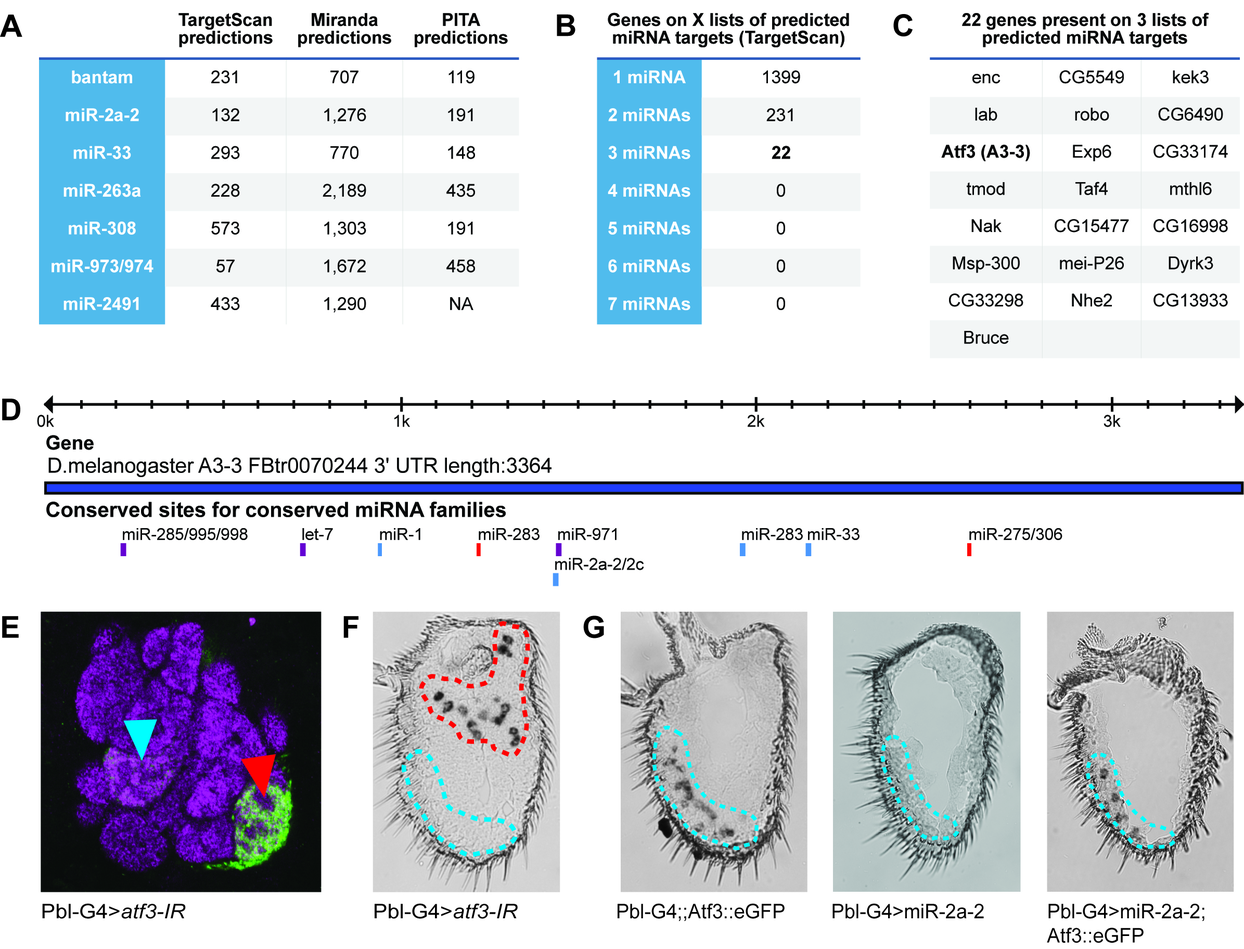
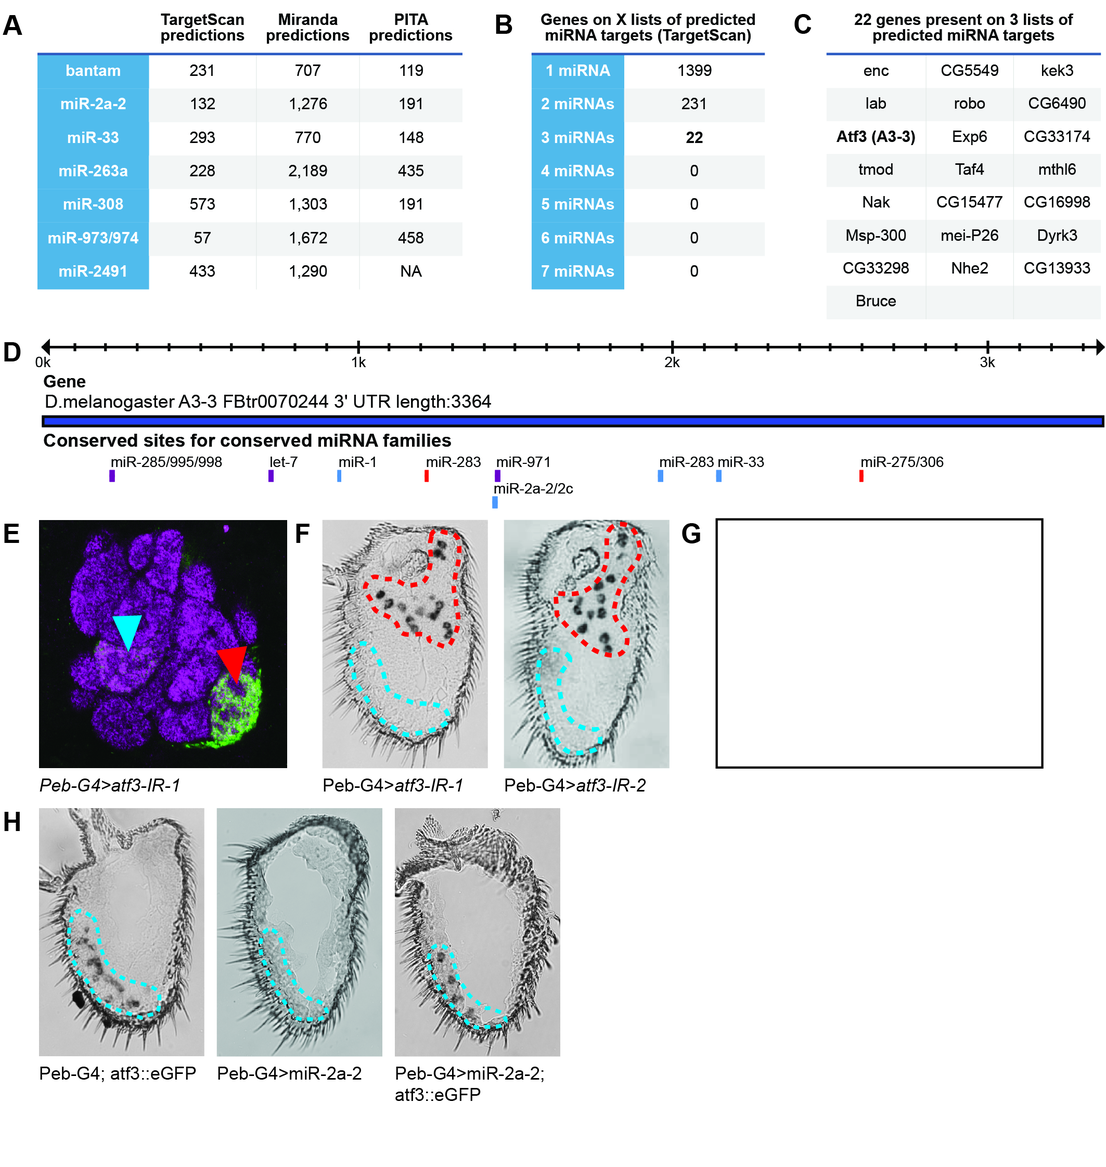
Loads of changes. Whoops! Forgot to commit.

diff --git a/secondary_screen.tex b/secondary_screen.tex
@@ -4,16 +4,16 @@ Following the screening protocol outlined in \textbf{Fig. \ref{fig:1}A}, we next
 We initially compared the outputs of multiple target prediction algorithms (i.e., TargetScan, miRanda, and PITA), as this is standard practice \cite{am_Namkoong_Lee_Chung_Kim_2009,agen_Okamura_Perrimon_Lai_2007}.
 \textbf{Figure \ref{fig:2}A} compares the numbers of candidate targets predicted for each miRNA that induces loss of Or47b by the \href{http://www.targetscan.org/fly_12/}{TargetScan} \cite{ohnston_Kellis_Bartel_Lai_2007}, \href{http://www.microrna.org}{miRanda} \cite{Gaul_Tuschl_Sander_Marks_2003}, and \href{http://genie.weizmann.ac.il/pubs/mir07/mir07_dyn_data.html}{PITA} \cite{ino_Unnerstall_Gaul_Segal_2007} algorithms.
 
-Typically, miRNA-based screens using Gal4 lines that drive expression in well-characterized tissues would allow a list of predicted miRNA targets to be prioritized based on expression in the tissue of interest.
+Typically, miRNA-based screens using GAL4 lines that drive expression in well-characterized tissues would allow a list of predicted miRNA targets to be prioritized based on expression in the tissue of interest.
 In this case, however, without access to transcriptome data for the olfactory neurons of interest, we decided to prioritize our secondary RNAi screen by looking for overlap between the lists of candidate targets for each miRNA whose over-expression eliminated Or47b expression.
 We decided to focus on TargetScan because it predicts miRNA seed matches in both 3'-UTRs and open reading frames as well as provides a way to query more recently identified miRNAs like miR-2491.
 PITA does not provide easy access to this option, and the miRanda algorithm produces too many predicted targets.
 TargetScan predicts a total of 1399 unique targets for the seven UAS-miRNA lines that eliminate Or47b expression.
 While 231 of these unique candidates are shared between the prediction lists for two of the miRNAs, only 22 targets appear on the lists for three of the miRNAs (\textbf{Fig. \ref{fig:2}B-C}).
 
-We next screened through the list of candidate targets that appear on the prediction lists for multiple miRNAs by combining gene-specific UAS-candidate-IR (inverted repeat) lines with the control Peb-GAL4; Or47b\textgreater{}CD8::GFP, Or92a\textgreater{}CD8::GFP genotype.
+We next screened through this list of candidate targets appearing on the prediction lists for multiple miRNAs by combining gene-specific UAS-candidate-IR (inverted repeat) lines with the control Peb-GAL4; Or47b\textgreater{}CD8::GFP, Or92a\textgreater{}CD8::GFP genotype.
 In this secondary screen, knockdown of responsible targets can be expected to mimic the miRNA-induced loss of Or47b.
-This is how we were able to confirm a role for Activating Transcription Factor 3 (Atf3 or A3-3) in the expression of Or47b.
+This is how we were able to identify a role for Activating Transcription Factor 3 (Atf3 or A3-3) in the expression of Or47b.
 Atf3 appears on the predicted target lists for three miRNAs whose over-expression eliminates Or47b expression (i.e., miR-2a-2, miR-33, and miR-2491).
 \textbf{Figure \ref{fig:2}D} indicates the positions of the miR-2a-2 and miR-33 binding sites in the Atf3 3'-UTR.
 The miR-2491 binding site in the 3'-UTR of Atf3 is conserved across several species of \emph{Drosophila}, but because it is not part of the standard TargetScan search parameters it does not appear in the exportable graphic used to make \textbf{Figure \ref{fig:3}D}.
@@ -23,7 +23,7 @@ This fact that it is currently impossible to predict which of the clear miRNA se
 Furthermore, loss of Atf3 eliminates Or47b expression as assessed via mixed probe \emph{in situ} hybridization while leaving Or92a expression unaffected (compare \textbf{Fig. \ref{fig:2}F} to \textbf{Fig. \ref{fig:1}C}).
 Since we are using miRNAs as a screening tool, the precise mechanisms by which they produce their phenotypes are irrelevant to the results of the follow-up screen.
 Still, in the interest of completeness, we confirmed that the over-expression of miR-2a-2 reduces the level of Atf3 in antennal cDNAs as detected by qPCR (\textbf{Fig. \ref{fig:2}G}).
-We were also able to confirm that the loss of Or47b expression induced by miR-2a-2 over-expression is rescued by introduction of an Atf3::eGFP protein fusion that lacks its 3'-UTR and thus the miR-2a-2 binding site (\textbf{Fig. \ref{fig:2}H}).
+We were also able to confirm that the loss of Or47b expression induced by miR-2a-2 over-expression is rescued by introduction of an Atf3::eGFP fusion that lacks its 3'-UTR and thus the miR-2a-2 binding site (\textbf{Fig. \ref{fig:2}H}).
 
-Eip93f, the only other transcription factor whose loss-of-function eliminates Or47b expression, appears on the candidate target lists of two miRNAs whose over-expression eliminates expression of the Or47b reporter (i.e., miR-308 and miR-2491).
+It is interesting to note that Eip93f, the only other transcription factor whose loss-of-function eliminates Or47b expression, appears on the candidate target lists of two miRNAs whose over-expression eliminates expression of the Or47b reporter (i.e., miR-308 and miR-2491).
 This means we could have identified it in a second round of gene-specific RNAi screening had the list of candidate targets appearing on three lists failed to identify a true positive.

diff --git a/discussion.tex b/discussion.tex
@@ -1,15 +1,15 @@
 \section*{Discussion}
 
-Here we report a simple proof-of-concept for a two-tiered, miRNA-based screening system designed to accelerate the process of genetic screening in \emph{Drosophila}.
+Here we report a simple proof-of-concept for a two-tiered, miRNA-based approach for accelerating the process of genetic screening in \emph{Drosophila}.
 We generated a collection of transgenic fly stocks that permit the tissue-specific over-expression of miRNAs.
 Since miRNAs down-regulate their targets, we reasoned that miRNAs could be used for a pooling pre-screen that points the way to a much smaller list of RNAi stocks for follow-up screening than would normally be necessary.
 We demonstrated this screening method in the olfactory system where we identified a novel role for the transcription factor Atf3 in the expression of the socially relevant odorant receptor Or47b.
 
 In addition, Eip93f, the only other transcription factor known to be involved in Or47b expression, is also a predicted target of some of the miRNAs we found to cause loss of Or47b expression.
-In other words, we were able to validate our screening system on a known transcription factor and rapidly (i.e., in a small number of genetic crosses) identify a previously unknown player in OR expression, Atf3.
+In other words, our screening strategy pointed both to a known transcription factor and, in very few genetic crosses, a previously unknown player in OR expression, Atf3.
 
 The clear advantage to a two-tiered miRNA-based screening strategy is a reduction in the total number of crosses necessary to identify a gene associated with a specific phenotype.
-Genetic screening always depends on a limited human resource---the patience and endurance of the researcher.
+Genetic screening always depends on a limited resource---the patience and endurance of the researcher.
 In traditional genetic screens the assay for the screened phenotype must be as simple and streamlined as possible to minimize researcher fatigue.
 In our proof-of-principle screen in the olfactory system, we were able to identify Atf3 in roughly 160 genetic crosses.
 With this level of acceleration, it becomes feasible to design screens with more complicated or time-consuming assays.
@@ -22,7 +22,7 @@ Their results suggest the existence of an essential repressor binding site in th
 Unfortunately, there is no clear binding site in the Or47b promoter that matches the only published \cite{a_Bohmann_Jindra_Uhlirova_2009} consensus sequence recognized by \emph{Drosophila} Atf3, TGACGTCA.
 Thus, further experiments will be necessary to determine the exact mechanism of action by which Atf3 regulates Or47b expression.
 
-Although our proof-of-concept screen was successful, it has not escaped our attention that miRNA-based screening is inherently biased and will not be suitable for screening in every tissue or for every phenotype.
+Although our proof-of-concept screen was successful, it has not escaped our attention that miRNA-based screening is inherently biased and will not be suitable for use in every tissue or for every phenotype.
 One type of bias stems from our strict use of endogenous \emph{Drosophila} miRNAs rather than designing short synthetic miRNAs that may allow targeting of a wider range of genes.
 Even with a collection of synthetic miRNAs, though, any form of miRNA-based screening would preferentially identify genes with longer open reading frames and longer 3'-UTRs.
 In fact, as is the case with traditional RNAi technology, some genes may not be accessible to miRNA-based knockdown at all.

diff --git a/intro.tex b/intro.tex
@@ -17,12 +17,12 @@ Rather than seeing these pairings as a potential drawback of using a library of 
 We previously generated a library of 131 UAS-miRNA fly stocks that permit tissue-specific over-expression of 144 \emph{Drosophila} miRNAs \cite{suh_2015aa}.
 In this study, we sought to use these UAS-miRNA stocks to validate the concept of a two-tiered miRNA-based screen in the \emph{Drosophila} olfactory system.
 
-The olfactory receptor neurons (ORNs) of adult \emph{Drosophila} are housed in porous hair-like sensilla that cover the paired antennae and maxillary palps.
+The olfactory sensory neurons (OSNs) of adult \emph{Drosophila} are housed in porous hair-like sensilla that cover the paired antennae and maxillary palps.
 Olfactory sensilla are divided into 3 main classes by their shape and 17 subclasses by their odor response profiles \cite{Couto_Alenius_Dickson_2005}.
-The odor response profile of an ORN is determined by its expression of the obligatory olfactory co-receptor Orco and one or very few of the adult odor-specific odorant receptors (ORs) \cite{Vosshall_Stocker_2007}.
-The spatial arrangement of the 17 subclasses of adult olfactory sensilla on the antenna, the arrangement of the ORNs themselves, the precise pattern of OR expression, and the wiring of the antennal OSNs into the appropriate glomeruli of the antennal lobe are all highly stereotyped from fly to fly, indicating well-orchestrated developmental control of every step in the process.
+The odor response profile of an OSN is determined by its expression of the obligatory olfactory co-receptor Orco and one or very few of the adult odor-specific odorant receptors (ORs) \cite{Vosshall_Stocker_2007}.
+The spatial arrangement of the 17 subclasses of adult olfactory sensilla on the antenna, the arrangement of the OSNs themselves, the precise pattern of OR expression, and the wiring of the antennal OSNs into the appropriate glomeruli of the antennal lobe are all highly stereotyped from fly to fly, indicating well-orchestrated developmental control of every step in the process.
 
-Recently Jafari et al. reported the results of a large-scale RNAi screen that identified seven transcription factors, permutations of which determine the odorant receptor expressed by each population of olfactory neurons in the adult \emph{Drosophila} antenna.
+Jafari et al. reported the results of a large-scale RNAi screen that identified seven transcription factors, permutations of which determine the odorant receptor expressed by each population of olfactory neurons in the adult \emph{Drosophila} antenna.
 Despite the success of their screen, Jafari et al. extrapolated from the complexity of the fly olfactory system and estimated that at least three more unidentified transcription factors are likely part of the combinatorial code that determines OR expression \cite{Brochtrup_Hummel_Alenius_2012}.
 
 In their screen, Jafari et al. combined the Peb-GAL4 driver line, which is strongly expressed in peripheral sensory neurons including the antennal olfactory neurons, with a pair of OR promoter fusions (i.e., Or47b and Or92a) to a membrane-tethered GFP that act as reporters of OR expression.

diff --git a/abstract.tex b/abstract.tex
@@ -1,1 +1,1 @@
-The \emph{Drosophila} olfactory system is highly stereotyped in form and function; olfactory receptor neurons (ORNs) expressing a specific odorant receptor (OR) always appear in the same antennal location and the axons of ORNs expressing the same OR converge on the same antennal lobe glomeruli. Although some transcription factors have been implicated in a combinatorial code specifying OR expression and ORN identity, it is clear other players remain unidentified. To mitigate some of the challenges of genome-wide screening, we propose a two-tiered approach comprising a primary "pooling" screen for miRNAs whose tissue-specific over-expression causes a phenotype of interest followed by a focused secondary screen using gene-specific RNAi. Since miRNAs down-regulate their target mRNAs, miRNA over-expression phenotypes should be attributable to target loss-of-function. Since miRNA-target pairing is sequence-dependent, predicted targets of miRNAs identified in the primary screen are candidates for the secondary screen. Since miRNAs are short, however, miRNA misexpression will likely uncover non-biological miRNA-target relationships. Rather than focusing on miRNA function itself where these non-biological relationships could be misleading, we propose using miRNAs as tools to focus a more traditional RNAi-based screen. Here we describe a proof-of-concept miRNA-based screen that uncovers a role for Atf3 in the expression of the odorant receptor Or47b.
+The \emph{Drosophila} olfactory system is highly stereotyped in form and function; olfactory sensory neurons (OSNs) expressing a specific odorant receptor (OR) always appear in the same antennal location and the axons of OSNs expressing the same OR converge on the same antennal lobe glomeruli. Although some transcription factors have been implicated in a combinatorial code specifying OR expression and OSN identity, it is clear other players remain unidentified. To mitigate some of the challenges of genome-wide screening, we propose a two-tiered approach comprising a primary ``pooling'' screen for miRNAs whose tissue-specific over-expression causes a phenotype of interest followed by a focused secondary screen using gene-specific RNAi. Since miRNAs down-regulate their target mRNAs, miRNA over-expression phenotypes should be attributable to target loss-of-function. Since miRNA-target pairing is sequence-dependent, predicted targets of miRNAs identified in the primary screen are candidates for the secondary screen. Since miRNAs are short, however, miRNA misexpression will likely uncover non-biological miRNA-target relationships. Rather than focusing on miRNA function itself where these non-biological relationships could be misleading, we propose using miRNAs as tools to focus a more traditional RNAi-based screen. Here we describe a proof-of-concept miRNA-based screen that uncovers a role for Atf3 in the expression of the odorant receptor Or47b.

diff --git a/primary_screen.tex b/primary_screen.tex
@@ -1,14 +1,14 @@
 \subsection*{Primary screen for miRNAs that modify OR expression}
 
 As stated, we settled on \emph{Drosophila} olfactory neurons to demonstrate our miRNA-based screening strategy.
-We chose Pbl-GAL4 to drive expression of UAS-miRNAs in adult olfactory neurons because it is expressed strongly in peripheral sensory neurons beginning 12-18 hours after pupation \cite{dnik_Dickson_Luo_Komiyama_2007}.
-By combining Pbl-GAL4 with fusions of two odorant receptor promoters (i.e., Or92a and Or47b) to the coding sequence for a membrane-tethered GFP and crossing in the UAS-miRNAs, we were able to visualize the effects of miRNAs on OR expression.
+We chose Peb-GAL4 to drive expression of UAS-miRNAs in adult olfactory neurons because it is expressed strongly in peripheral sensory neurons beginning 12-18 hours after pupation \cite{dnik_Dickson_Luo_Komiyama_2007}.
+By combining Peb-GAL4 with fusions of two odorant receptor promoters (i.e., Or92a and Or47b) to the coding sequence for a membrane-tethered GFP and crossing in the UAS-miRNAs, we were able to visualize the effects of miRNAs on OR expression.
 Or92a is expressed in large basiconic sensilla in a class of OSN called ab1B, which respond to 2,3-butanedione \cite{de_Bruyne_Foster_Carlson_2001}.
 Or47b is expressed in trichoid sensilla in a class of OSNs called at4, which respond to socially relevant fly-derived odors \cite{vanderGoesvanNaters:2007cq}.
 We chose Or92a and Or47b because they are expressed in olfactory neurons that innervate prominent, well-separated glomeruli in the antennal lobe (i.e., VA2 and VA1lm) and whose cell bodies are easily distinguishable upon antennal RNA \emph{in situ} hybridization.
 
-For the primary miRNA over-expression screen, we crossed a stable homozygous stock containing Pbl-GAL4 and the Or47b and Or92a promoter fusions to all of our UAS-miRNA lines.
-We observed that Pbl-GAL4-mediated over-expression of 20 of 131 miRNA lines is lethal or nearly lethal (see Supplemental Table 1).
+For the primary miRNA over-expression screen, we crossed a stable homozygous stock containing Peb-GAL4 and the Or47b and Or92a promoter fusions to all of our UAS-miRNA lines.
+We observed that Peb-GAL4-mediated over-expression of 20 of 131 miRNA lines is lethal or nearly lethal (see Supplemental Table 1).
 For the remaining miRNAs, we compared the levels of the GFP reporters of OR expression in the antennal lobes of flies over-expressing miRNAs with a heterozygous control (\textbf{Fig. \ref{fig:1}B-C}).
 In doing so, we were able to divide miRNAs into three categories: those that reduce the intensity of the Or47b reporter in VA1lm (\textbf{Fig. \ref{fig:1}D}, blue arrowheads), the Or92a reporter in VA2 (\textbf{Fig. \ref{fig:1}E}, red arrowheads), or both (\textbf{Fig. \ref{fig:1}F}).
 

diff --git a/atf3_validation.tex b/atf3_validation.tex
@@ -14,4 +14,13 @@ We used Peb-GAL4 in our two-tiered miRNA-based screen because it drives expressi
 Since Peb-GAL4 expression begins soon after the birth of the OSNs and long before the earliest OR expression begins at 50 hours APF, it is possible that Atf3 plays a developmental role in Or47b-expressing neurons.
 To rule out this possibility, we repeated the Atf3 loss-of-function experiment using Orco-GAL4.
 Orco-GAL4 begins to drive expression in antennal OSNs at roughly 80 hours APF, after olfactory development is complete \cite{s_Chiappe_Amrein_Vosshall_2004}.
-Like the result with Pbl-GAL4, knockdown of Atf3 using Orco-GAL4 eliminates Or47b expression, and this loss of Or47b expression can be partially rescued by re-introduction of Atf3 (\textbf{Fig. \ref{fig:3}D}).
+Like the result with Peb-GAL4, knockdown of Atf3 using Orco-GAL4 eliminates Or47b expression, and this loss of Or47b expression can be partially rescued by re-introduction of Atf3 (\textbf{Fig. \ref{fig:3}D}).
+
+In further confirmation of Atf3's role in OR expression, we performed an RNA \emph{in situ} hybridization experiment using mixed riboprobes against both Or92a and Or47b on Atf3-null mutants.
+Although the \emph{atf3\textsuperscript{76}} allele is a recessive lethal mutation \cite{Brodesser_Jindra_Uhlirova_2012}, we were able to obtain a few hemizygous male escapers.
+While Or92a expression in these mutant antennae remains intact, the expression of Or47b is completely lost (\textbf{Fig. \ref{fig:3}E, left}).
+The combination of the \emph{atf3\textsuperscript{76}} allele with the Atf3::eGFP BAC transgene, however, rescues both the lethality and the expression of Or47b (\textbf{Fig. \ref{fig:3}E, right}).
+
+Finally, because we observed a population of OSNs labeled by Atf3::eGFP and not by Or47b-G4>TdTomato (\textbf{Fig. \ref{fig:3}B}), we asked whether Atf3 is involved in the expression of other ORs.
+We knocked-down the expression of Atf3 in most OSNs using Orco-GAL4 (\emph{Orco-Gf>atf3-IR1}) and performed antennal RNA \emph{in situ} hybridizations using riboprobes specific to several more ORs known to be expressed in the adult antenna (i.e., Or13a, Or22a, Or22b, Or42b, Or43b, Or59b, Or85b, Or98a, and Orco).
+Of these, only Or43b is lost upon knockdown of Atf3 like Or47b (\textbf{Fig. \ref{fig:3}F}).

diff --git a/figures/Fig2/caption.tex b/figures/Fig2/caption.tex
@@ -4,7 +4,8 @@
 \textbf{B.} The number of genes that appear on the TargetScan candidate target lists in A.
 \textbf{C.} Twenty-two genes, including Atf3, appear on the candidate target lists for 3 different miRNAs.
 \textbf{D.} A schematized view of the Atf3 (A3-3) 3'-UTR showing the locations of seed matches for miR-2a and miR-33, which reduce Or47b expression.
-\textbf{E.} Atf3 knockdown in all olfactory neurons using Pbl-GAL4 reduces expression of an Or47b reporter, but spares expression of an Or92a reporter.
-\textbf{F.} Antennal \emph{in situ} hybridization with mixed riboprobes that recognize Or47b (blue) and Or92a (red) reveals that Atf3 knockdown eliminates Or47b expression, but spares Or92a expression.
-\textbf{G.} An Atf3::eGFP fusion protein lacking the Atf3 3'-UTR, which contains the miR-2a-2 binding site, rescues the loss of Or47b expression observed with miR-2a-2 over-expression.
+\textbf{E.} Atf3 knockdown in all olfactory neurons using Peb-GAL4 reduces expression of an Or47b reporter, but spares expression of an Or92a reporter.
+\textbf{F.} Antennal \emph{in situ} hybridization with mixed riboprobes that recognize Or47b (blue) and Or92a (red) reveals that Atf3 knockdown using two different RNAi lines eliminates Or47b expression, but spares Or92a expression.
+\textbf{G.} Over-expression of miR-2a-2 in olfactory neurons using Peb-GAL4 reduces the expression of Atf3 in the antenna. * $p$<0.05.
+\textbf{H.} An Atf3::eGFP fusion protein lacking the Atf3 3'-UTR, which contains the miR-2a-2 binding site, rescues the loss of Or47b expression observed with miR-2a-2 over-expression.
 \label{fig:2}

diff --git a/acknowledgements.tex b/acknowledgements.tex
@@ -1,4 +1,4 @@
 \section*{Acknowledgements}
 
-We thank Mattias Alenius (Link{\"{o}}ping, Sweden) for providing the published Pbl-GAL4,UAS-Dcr2;Or47b\textgreater{}CD8::GFP, Or92a\textgreater{}CD8:GFP stock, Mirka Uhlirova (K{\"{o}}ln, Germany) for providing the Atf3 mutant, UAS-Atf3 and Atf3::eGFP stocks, as well as the VDRC and TRiP at Harvard Medical School (NIH/NIGMS R01-GM084947) for providing transgenic RNAi fly stocks.
+We thank Mattias Alenius (Link{\"{o}}ping, Sweden) for providing the published Peb-GAL4,UAS-Dcr2;Or47b\textgreater{}CD8::GFP, Or92a\textgreater{}CD8:GFP stock, Mirka Uhlirova (K{\"{o}}ln, Germany) for providing the atf3\textsuperscript{76} mutant, UAS-Atf3 and Atf3::eGFP stocks, as well as the VDRC and TRiP at Harvard Medical School (NIH/NIGMS R01-GM084947) for providing transgenic RNAi fly stocks.
 This work was supported by grants to W.D.J. (2013R1A1A2011339 and 2010-0006217) from the National Research Foundation of Korea (NRF), which is funded by the Ministry of Science, ICT and Future Planning (MSIP), Republic of Korea.

diff --git a/drosophila_stocks.tex b/drosophila_stocks.tex
@@ -1,7 +1,9 @@
+\section*{Methods}
+
 \subsection*{\emph{Drosophila} stocks}
 
 All stocks were maintained at $25\,^{\circ}\mathrm{C}$ on conventional media.
-For the two screening steps, virgin females (Pbl-GAL4, UAS-Dcr2;Or47b\textgreater{}CD8::GFP, Or92a\textgreater{}CD8::GFP) or Orco-GAL4 (BDSC 26818), were mated to either UAS-miRNA or UAS-IR (inverted repeat) males.
+For the two screening steps, virgin females (Peb-GAL4, UAS-Dcr2;Or47b\textgreater{}CD8::GFP, Or92a\textgreater{}CD8::GFP) or Orco-GAL4 (BDSC 26818), were mated to either UAS-miRNA or UAS-IR (inverted repeat) males.
 The crosses were maintained at $25\,^{\circ}\mathrm{C}$ until being shifted to $27\,^{\circ}\mathrm{C}$ during pupation to enhance GAL4 expression.
 All UAS-miRNA and UAS-IR lines that were found to reduce the expression of the GFP reporters were crossed and checked 2-3 times each to ensure reproducibility.
 Two different UAS-Atf3-IR lines (BDSC 26741 and VDRC 105036) produced identical phenotypes.

diff --git a/figures/Fig3/caption.tex b/figures/Fig3/caption.tex
@@ -4,4 +4,6 @@
 \textbf{B.} An Atf3::eGFP protein fusion under the control of the Atf3 promoter is co-expressed with Or47b-GAL4 driving UAS-TdTomato in Or47b neurons.
 \textbf{C.} Over-expression of Atf3 in most adult OSNs using Orco-GAL4 does not expand the expression of Or47b.
 \textbf{D.} When compared to the UAS-atf3-IR control (left), Orco-GAL4 driven knockdown of Atf3 eliminates Or47b expression (center), but this can be partially rescued by UAS-Atf3 (right).
+\textbf{E.} (Left) Atf3-null \emph{atf\textsuperscript{76}} mutant antennae show normal Or92a expression (circled in red), but lack Or47b expression (circled in blue). (Right) The Atf3::eGFP transgene rescues Or47b expression in \emph{atf\textsuperscript{76}} antennae.
+\textbf{F.} Knock-down of Atf3 in most OSNs using Orco-GAL4 eliminates Or43b expression.
 \label{fig:3}

diff --git a/figures/Fig1/caption.tex b/figures/Fig1/caption.tex
@@ -3,7 +3,7 @@
 \textbf{A}.
 A two-tiered, miRNA-based screening workflow can accelerate loss-of-function genetic screens by limiting the number of necessary gene-specific RNAi crosses.
 \textbf{B}.
-Antennal lobe (AL) staining of the control Pbl-GAL4/+; Or47b\textgreater{}CD8::GFP, Or92a\textgreater{}CD8::GFP/+ controls shows strong GFP staining in both the Or47b glomerulus VA1lm (blue arrowhead) and the Or92a glomerulus VA2 (red arrowhead).
+Antennal lobe (AL) staining of the control Peb-GAL4/+; Or47b\textgreater{}CD8::GFP, Or92a\textgreater{}CD8::GFP/+ controls shows strong GFP staining in both the Or47b glomerulus VA1lm (blue arrowhead) and the Or92a glomerulus VA2 (red arrowhead).
 \textbf{C}.
 AL staining for 3 of the 7 miRNAs whose over-expression induces loss of the Or47b reporter (blue arrowheads).
 \textbf{D}.

diff --git a/miRNA_screening.tex b/miRNA_screening.tex
@@ -1,3 +1,5 @@
+\section*{Results}
+
 \subsection*{Two-tiered miRNA-based screening}
 
 Three other collections of UAS-miRNA stocks published recently were presented as tools either for identifying novel miRNA functions \cite{aleigh_Kim_Ni_Duan_et_al__2012,shauser_Forstemann_Basler_2012} or for use in the context of screens for modifiers of existing developmental phenotypes \cite{gler_Lim_Verma_Chen_Cohen_2012}.
